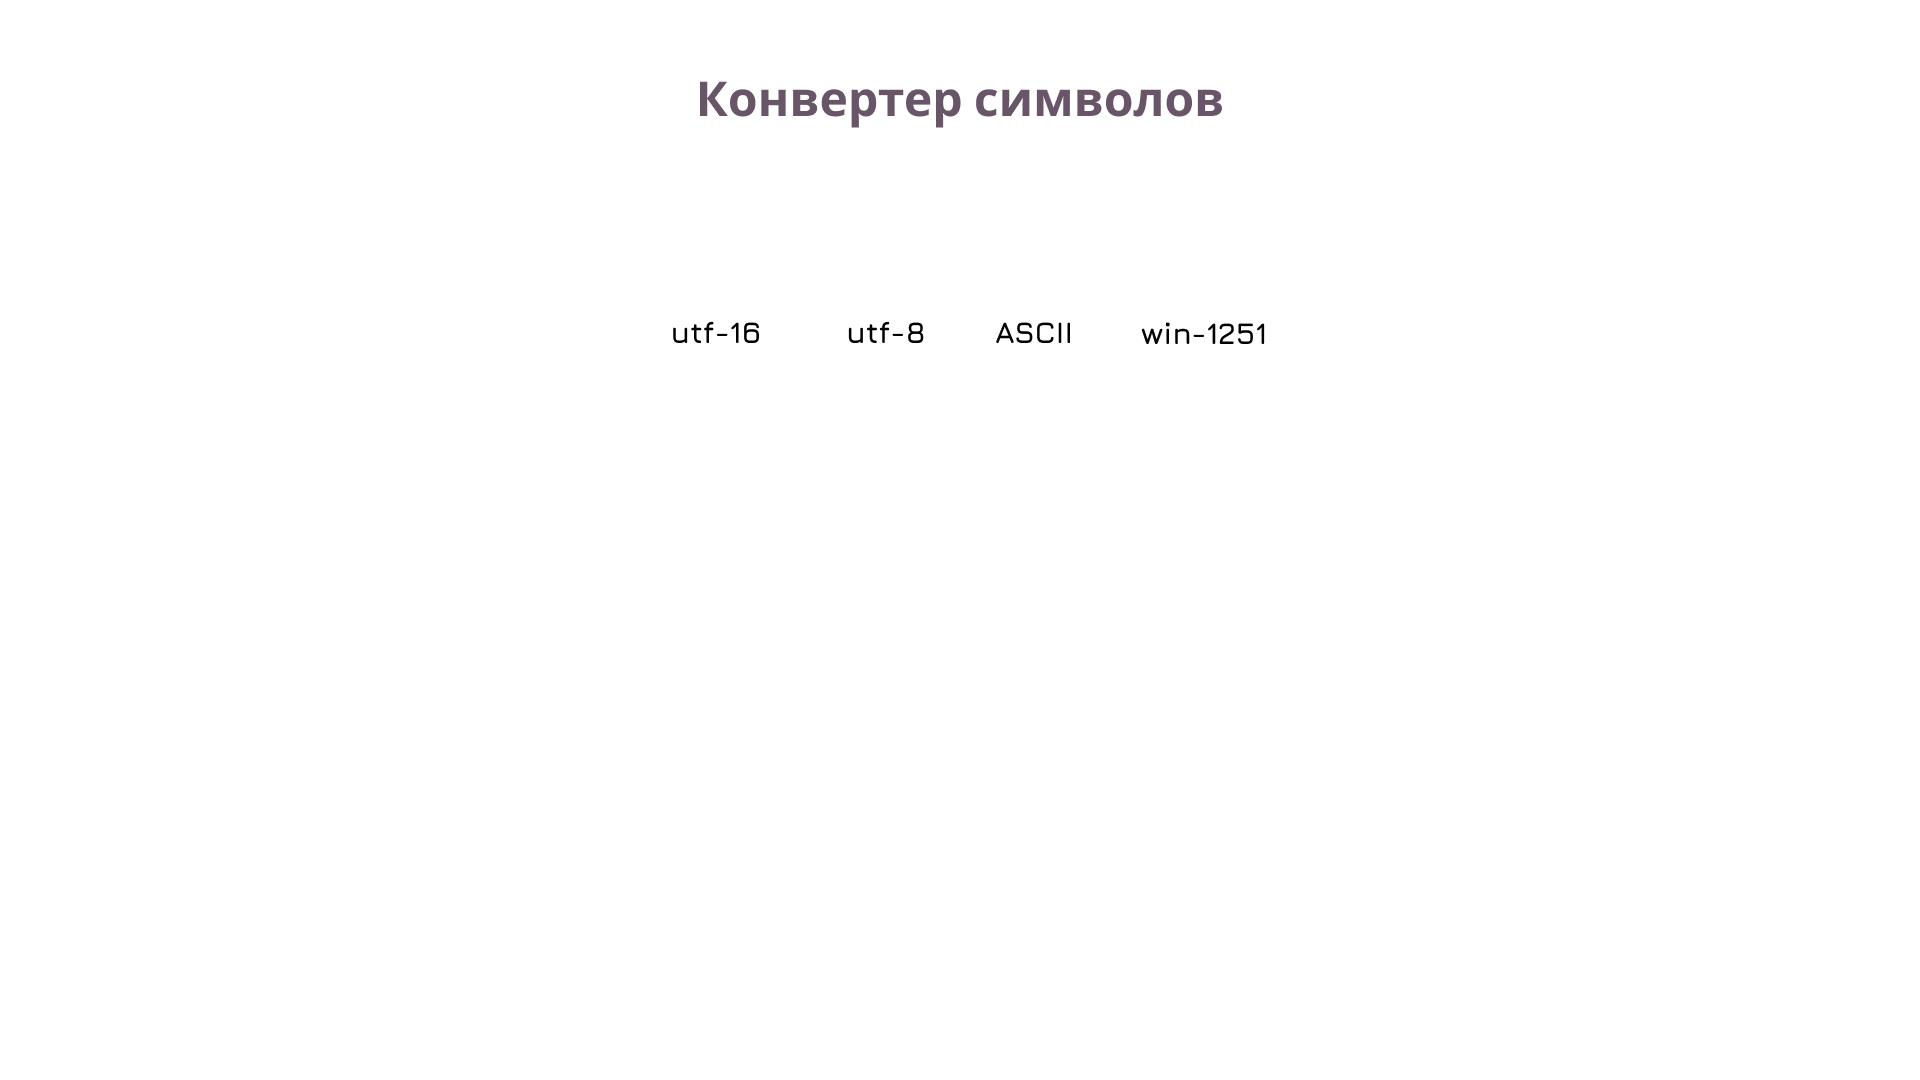
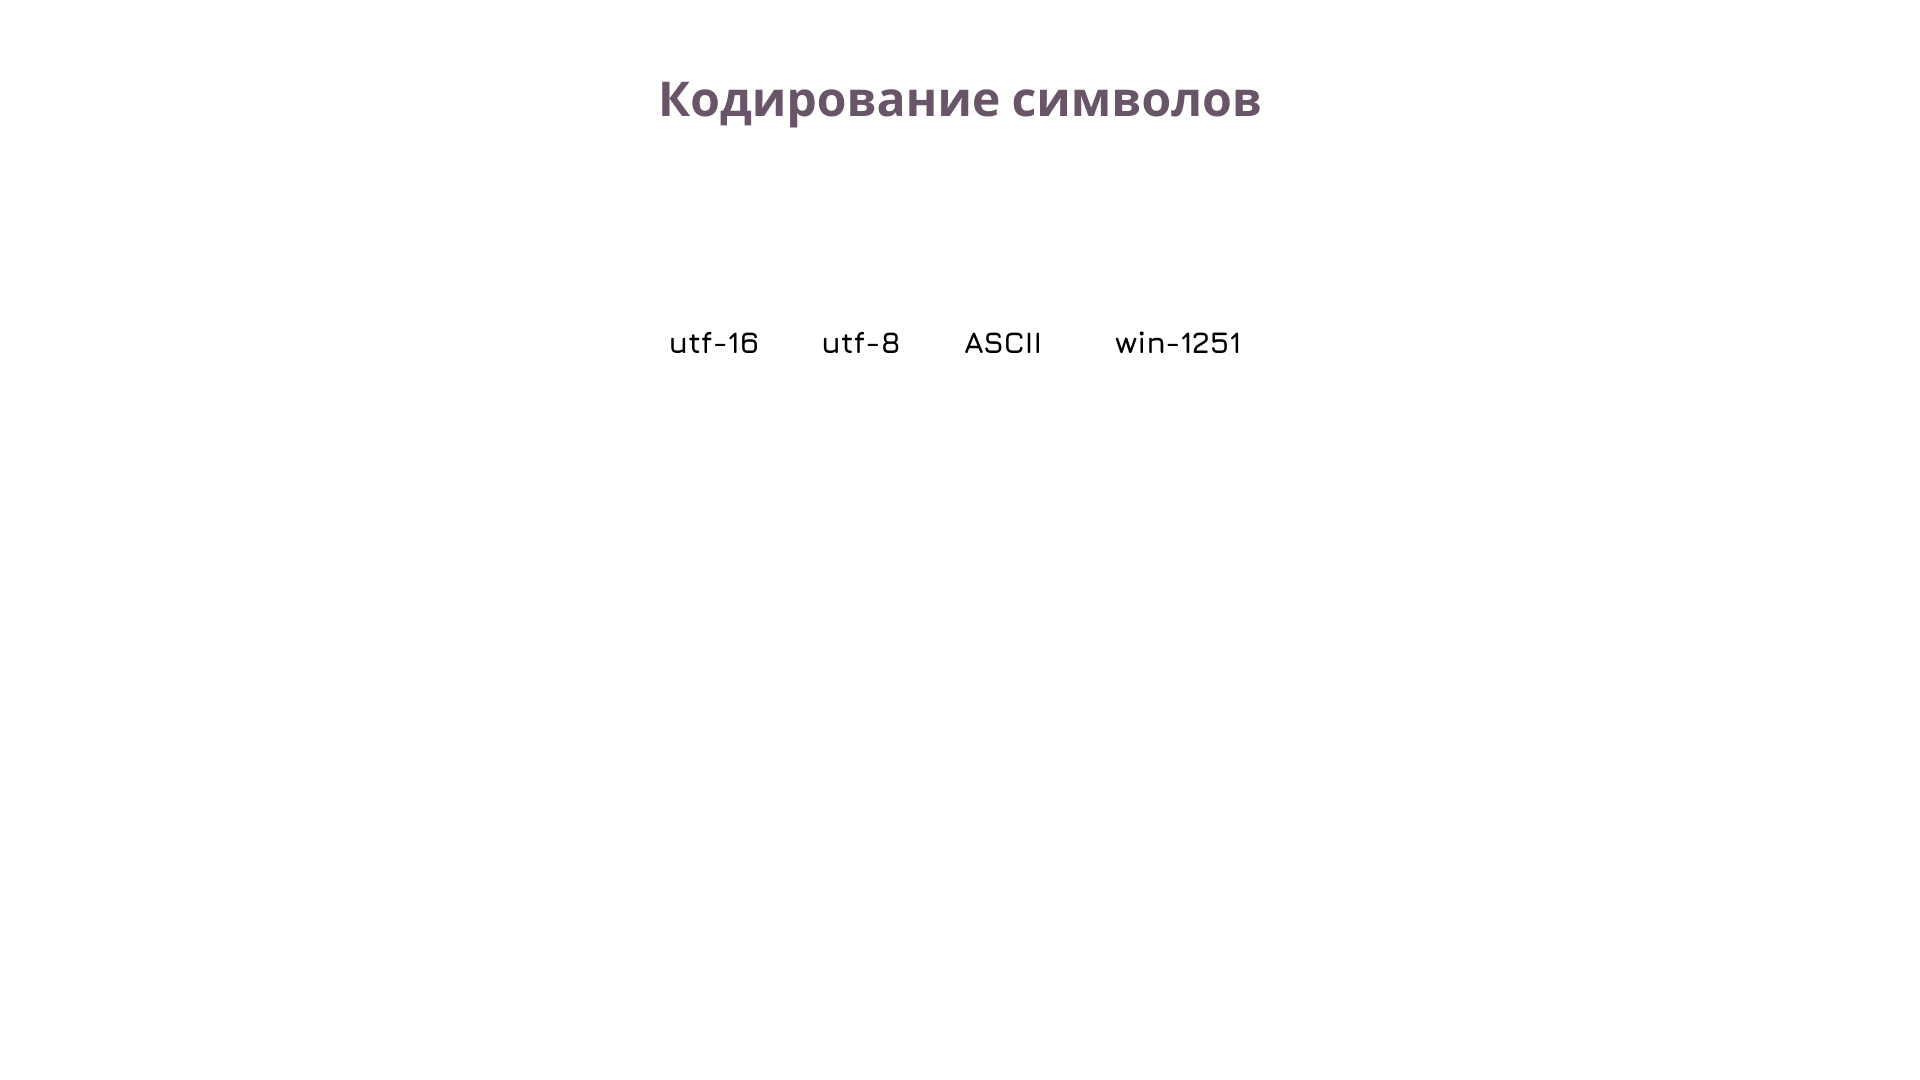
изменила второй макет изменила расположения радио кнопок

diff --git a/best_project/Main_window.cpp b/best_project/Main_window.cpp
@@ -125,10 +125,10 @@ void build_main_page(int page_id) {
            );
 
        encoder_radio_button.set_buttons_size(24, 24);
-       encoder_radio_button.get_button(0)->set_position(390, 235.5);
-       encoder_radio_button.get_button(1)->set_position(500, 235.5);
-       encoder_radio_button.get_button(2)->set_position(595, 235.5);
-       encoder_radio_button.get_button(3)->set_position(685, 235.5);
+       encoder_radio_button.get_button(0)->set_position(385, 240.5);
+       encoder_radio_button.get_button(1)->set_position(485, 240.5);
+       encoder_radio_button.get_button(2)->set_position(577, 240.5);
+       encoder_radio_button.get_button(3)->set_position(669, 240.5);
 
        encoder_radio_button.set_button_active(0);
 
